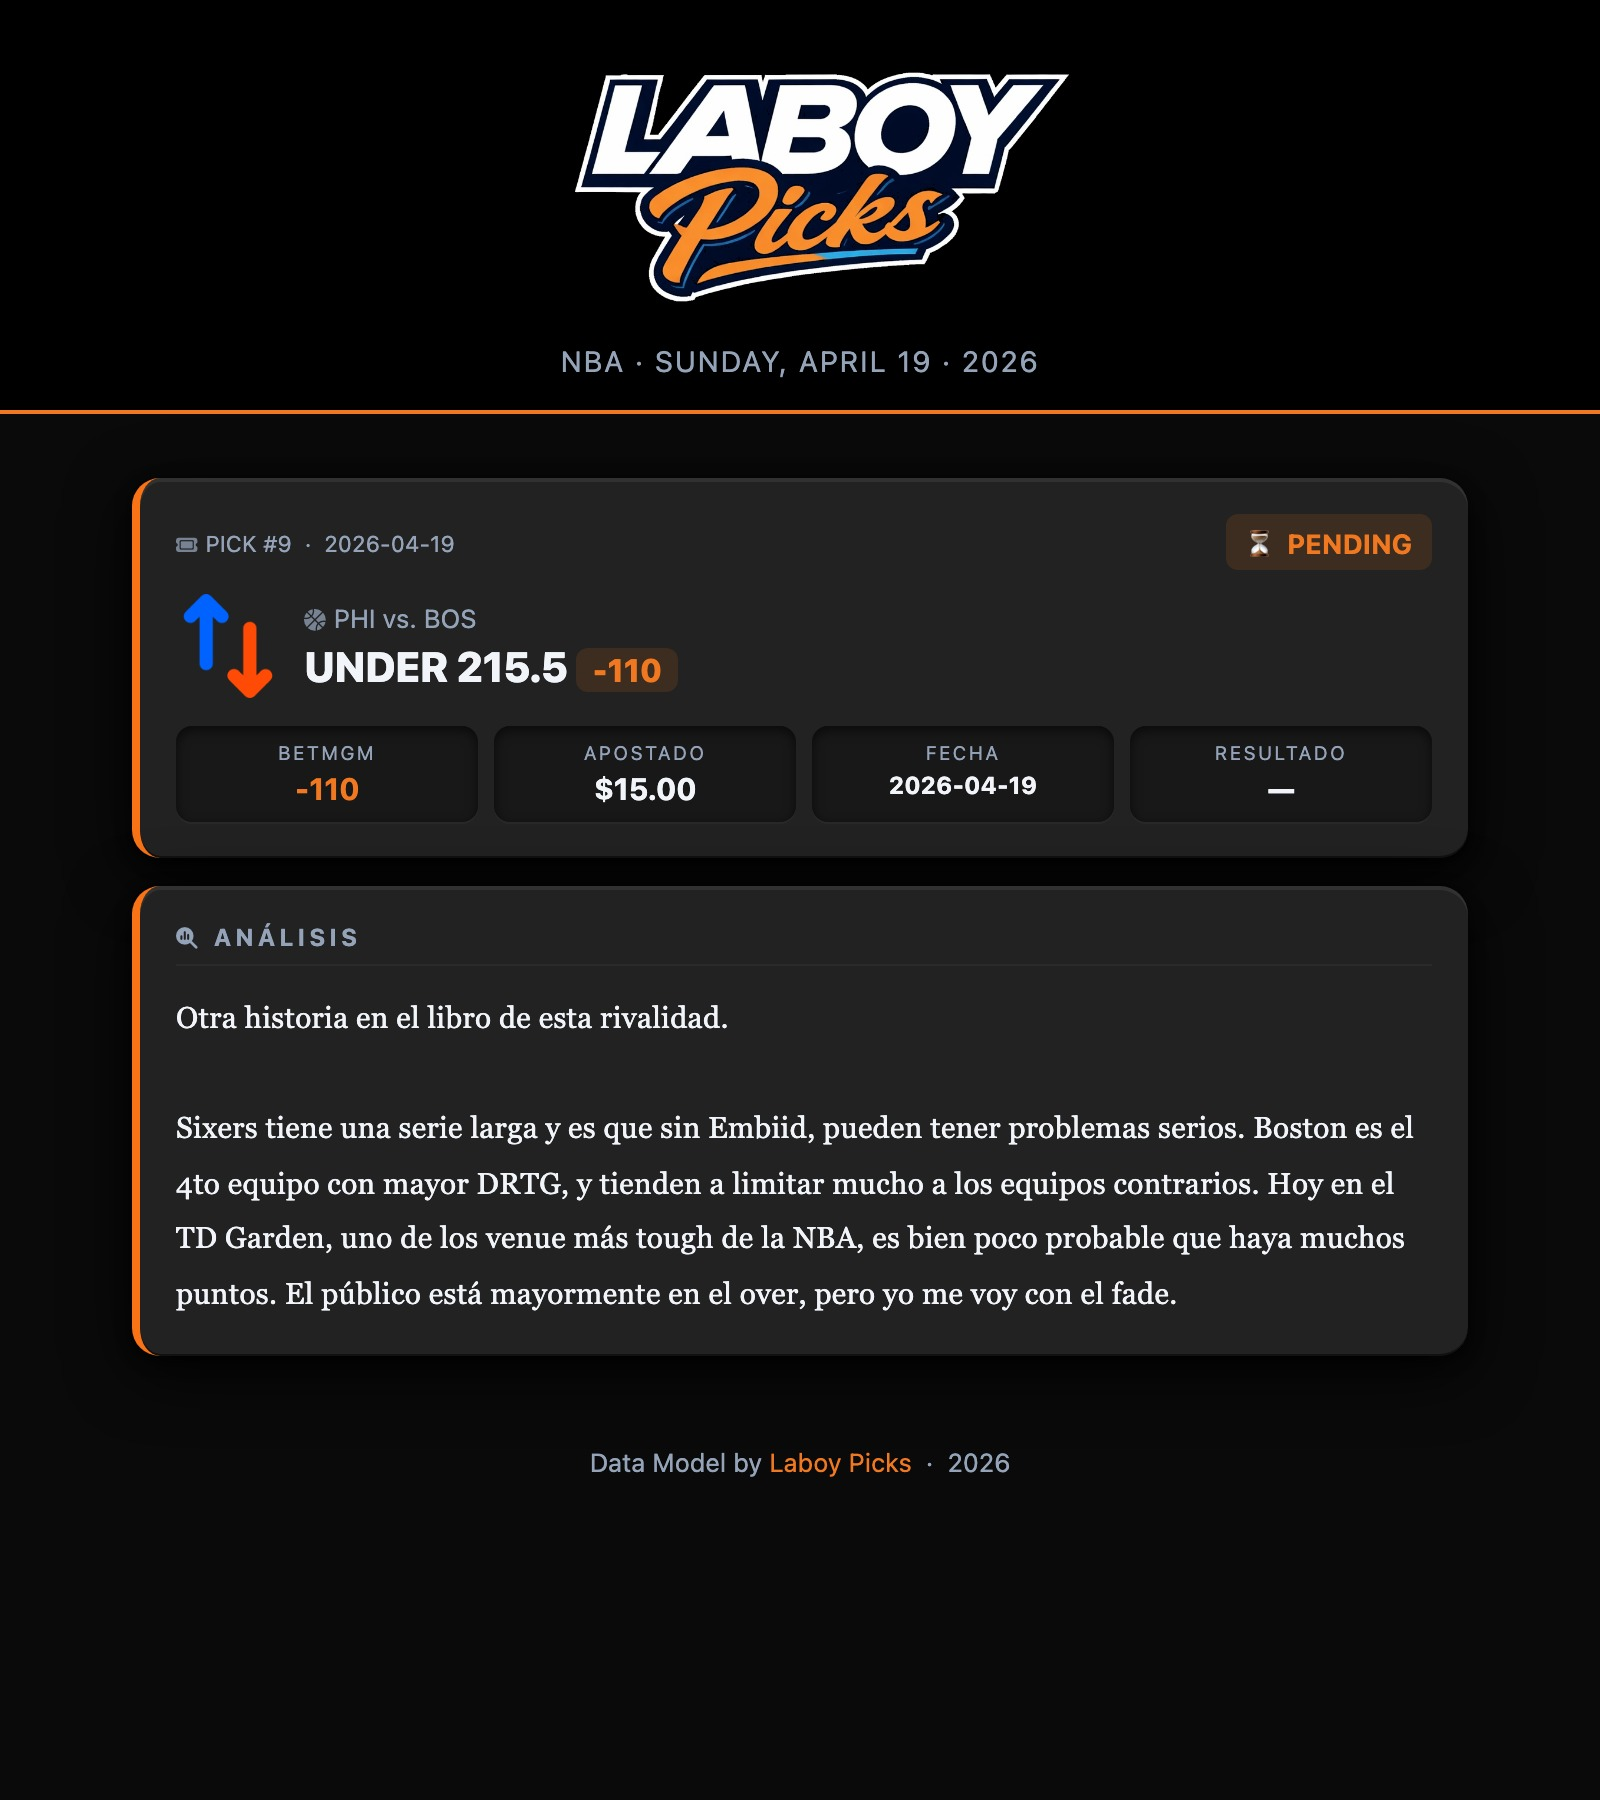
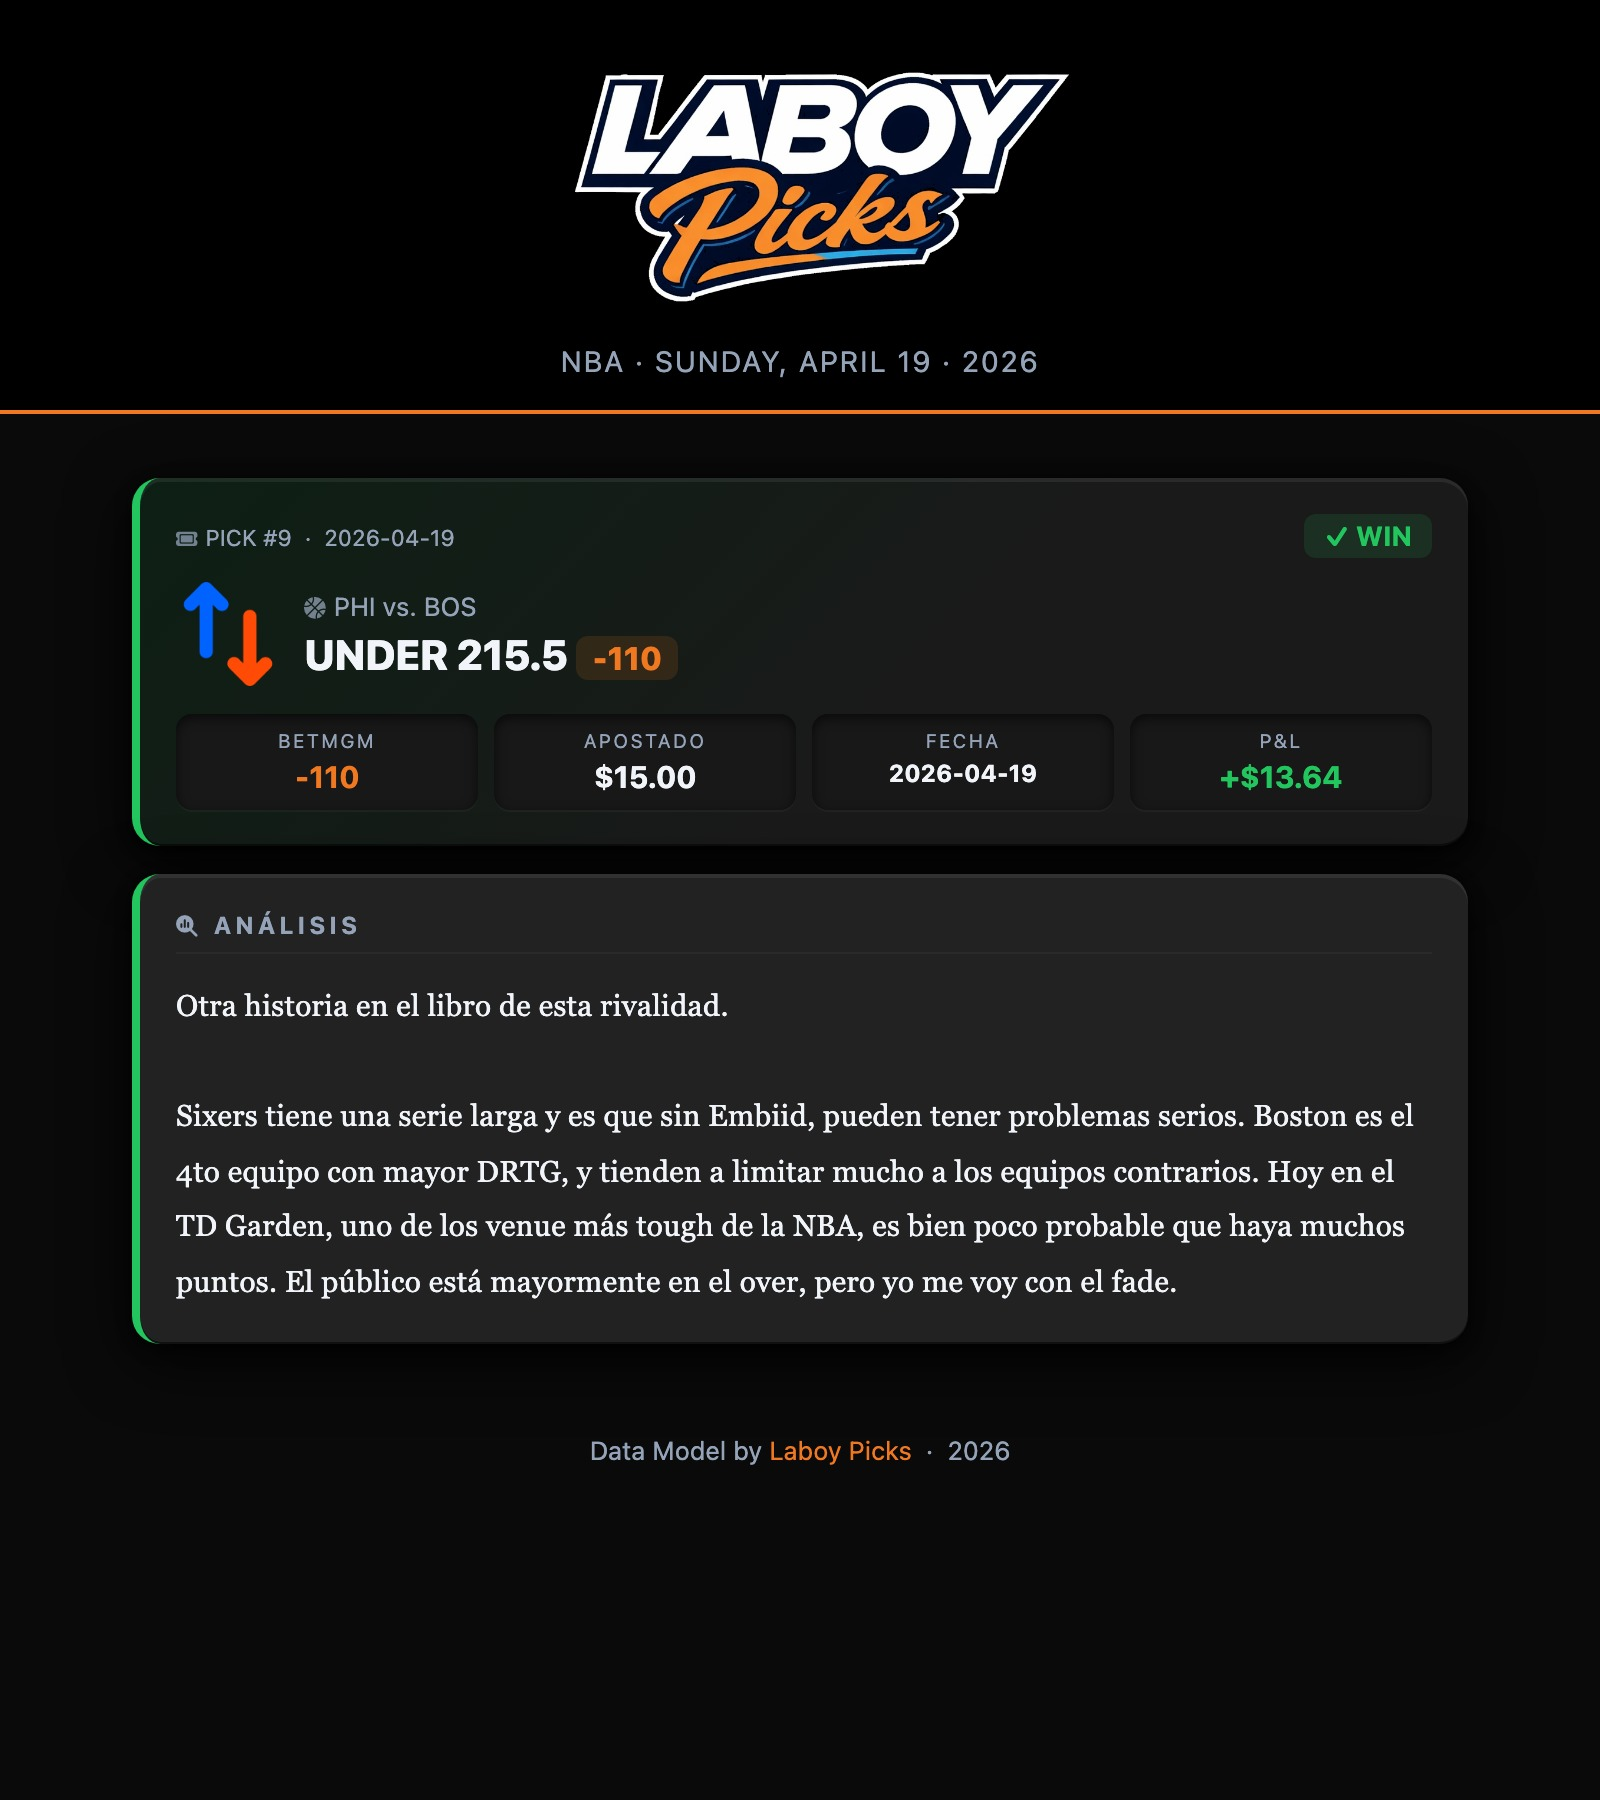
🏀 NBA 2026-04-19 — Laboy NBA Pick 2026-04-19 #9.html

diff --git a/Laboy NBA Pick 2026-04-19 #9.html b/Laboy NBA Pick 2026-04-19 #9.html
@@ -58,12 +58,12 @@
 </div>
 <div class="section">
 
-        <div class="pick-card" style="border-left:4px solid #f97316;">
+        <div class="pick-card" style="border-left:4px solid #22c55e;background:linear-gradient(135deg,#0d1f14 0%,#1a1a1a 60%)">
           <div style="display:flex;justify-content:space-between;align-items:center;margin-bottom:12px">
             <div style="font-size:0.7rem;color:var(--muted)">
               <i class="fa-solid fa-ticket fa-icon"></i>PICK #9 &nbsp;·&nbsp; 2026-04-19
             </div>
-            <span style="background:#f0782022;color:#f07820;border-radius:6px;padding:3px 10px;font-size:0.85rem;font-weight:700">⏳ PENDING</span>
+            <span style="background:#22c55e22;color:#22c55e;border-radius:6px;padding:3px 10px;font-size:0.85rem;font-weight:700">✓ WIN</span>
           </div>
           <div class="teams-row">
[1 lines of base64/hex data omitted]
@@ -76,10 +76,10 @@
             <div class="stat"><div class="stat-label">BetMGM</div><div class="stat-val" style="color:#f07820">-110</div></div>
             <div class="stat"><div class="stat-label">Apostado</div><div class="stat-val">$15.00</div></div>
             <div class="stat"><div class="stat-label">Fecha</div><div class="stat-val" style="font-size:0.75rem">2026-04-19</div></div>
-            <div class="stat"><div class="stat-label">Resultado</div><div class="stat-val">—</div></div>
+            <div class="stat"><div class="stat-label">P&L</div><div class="stat-val" style="color:#22c55e">+$13.64</div></div>
           </div>
         </div>
-        <div class="pick-card" style="border-left:4px solid #f97316;background:var(--card)">
+        <div class="pick-card" style="border-left:4px solid #22c55e;background:var(--card)">
           <div class="section-title" style="margin-top:0;margin-bottom:12px">
             <i class="fa-solid fa-magnifying-glass-chart fa-icon"></i>Análisis
           </div>

diff --git a/dashboard-Lb9x3Kw.html b/dashboard-Lb9x3Kw.html
@@ -33,6 +33,6 @@
 <li><a href="https://laboywebsite-lgtm.github.io/nba-picks/Laboy%20NBA%20Record%20Card%202026-04-15.html" target="_blank">2026-04-15</a></li>
 <li><a href="https://laboywebsite-lgtm.github.io/nba-picks/Laboy%20NBA%20Record%20Card%202026-04-14.html" target="_blank">2026-04-14</a></li>
 </ul>
-  <p class="ts">Actualizado: 2026-04-19 12:43</p>
+  <p class="ts">Actualizado: 2026-04-19 15:50</p>
 </body>
 </html>
